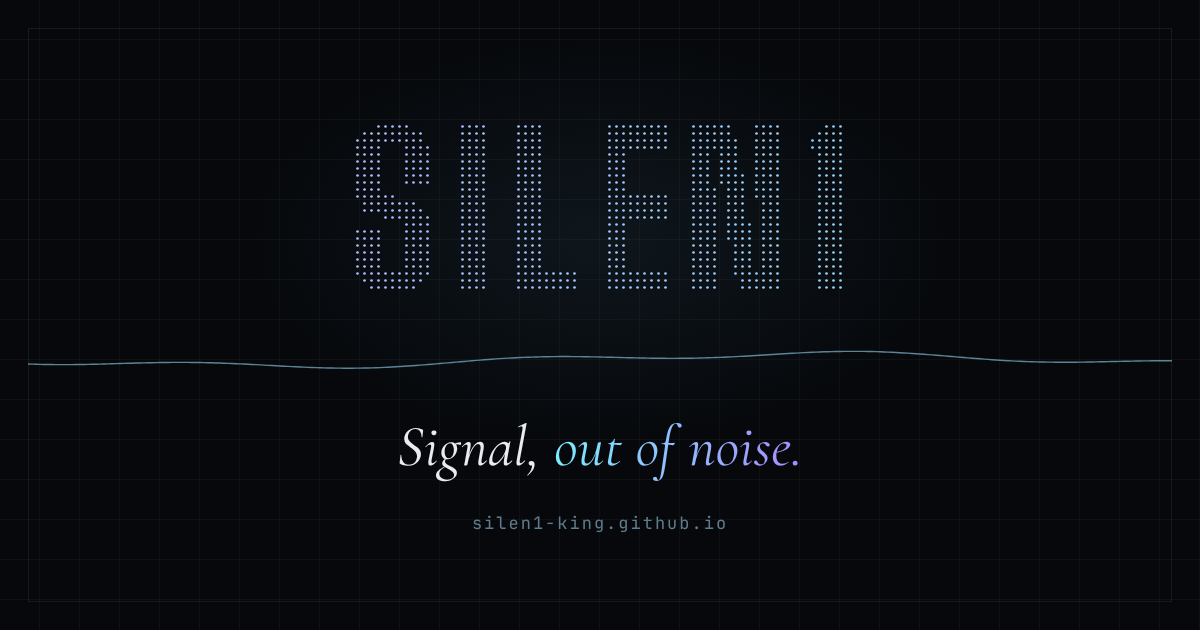
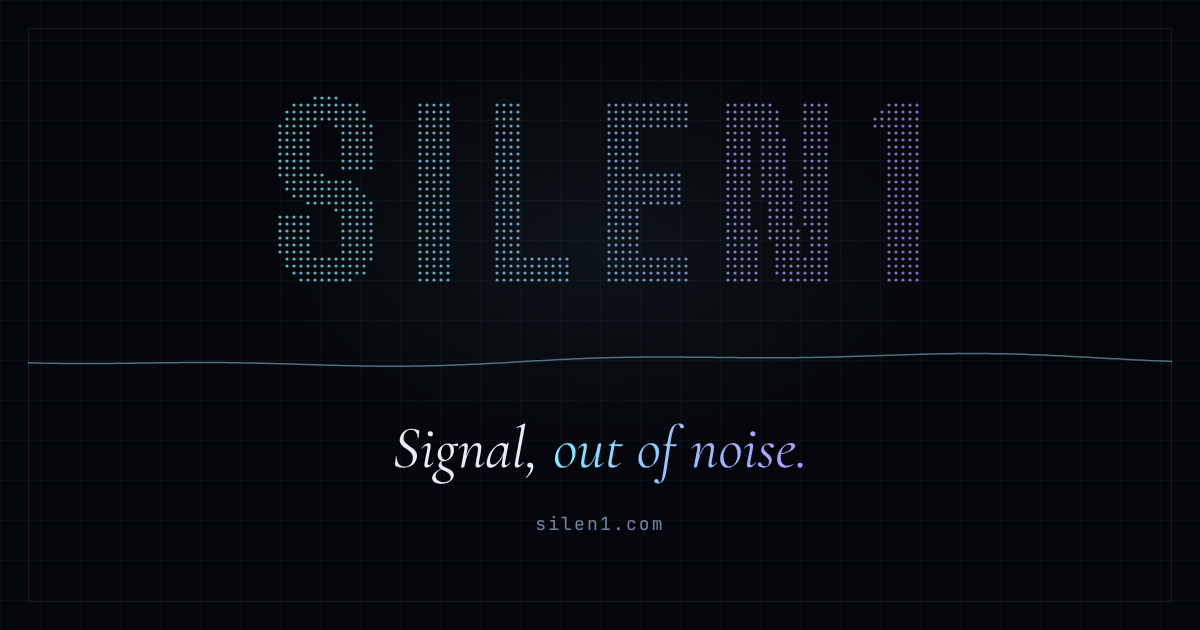
Site share card: silen1.com instead of the old address
Drawn by tools/og-cards.js --site; the ?v bump makes chat apps fetch it again.

Claude-Session: https://claude.ai/code/session_01Hj7h8k6GpPtj6h92DhySrT

diff --git a/tools/og-cards.js b/tools/og-cards.js
@@ -6,6 +6,7 @@
 //
 //   node tools/og-cards.js            cards for posts that don't have one
 //   node tools/og-cards.js --all      redraw every card
+//   node tools/og-cards.js --site     redraw the site card (images/og-card.png)
 //
 // Needs Playwright with Chromium (not a dependency of the site; the site
 // build only uses the PNGs). The title font is Noto Serif SC: point
@@ -90,8 +91,74 @@ ${skyline(post.path)}<div class="rain"></div><div class="frame"></div>
 </body></html>`;
 }
 
+// The site's own card, for the home page and every page without a post card:
+// SILEN1 in dots over the signal line, as on the home page.
+function siteCard() {
+  return `<!doctype html><html><head><meta charset="utf-8"><style>
+@font-face { font-family: "Big Shoulders Display"; src: url("${asset('fonts/big-shoulders-display.woff2')}") format("woff2"); font-weight: 100 900; }
+@font-face { font-family: "Cormorant Garamond"; font-style: italic; src: url("${asset('fonts/cormorant-garamond-italic.woff2')}") format("woff2"); }
+@font-face { font-family: "JetBrains Mono"; src: url("${asset('fonts/jetbrains-mono.woff2')}") format("woff2"); }
+* { margin: 0; }
+html, body { width: 1200px; height: 630px; overflow: hidden; background: #05060b; }
+.grid { position: absolute; inset: 0; background-image: linear-gradient(rgba(124,236,255,.035) 1px, transparent 1px), linear-gradient(90deg, rgba(124,236,255,.035) 1px, transparent 1px); background-size: 40px 40px; }
+.glow { position: absolute; inset: 0; background: radial-gradient(520px 300px at 50% 40%, rgba(124,236,255,.06), transparent 70%); }
+.frame { position: absolute; inset: 28px; border: 1px solid rgba(124,236,255,.10); }
+canvas { position: absolute; inset: 0; }
+.poem { position: absolute; top: 412px; width: 100%; text-align: center; font: italic 60px "Cormorant Garamond", serif; color: #e8ecf6; }
+.poem span { background: linear-gradient(90deg, #7cecff, #b096ff); -webkit-background-clip: text; color: transparent; }
+.url { position: absolute; top: 512px; width: 100%; text-align: center; font: 18px "JetBrains Mono", monospace; letter-spacing: .12em; color: #6f86a0; }
+</style></head><body>
+<div class="grid"></div><div class="glow"></div><div class="frame"></div>
+<canvas width="1200" height="630"></canvas>
+<div class="poem">Signal, <span>out of noise.</span></div>
+<div class="url">silen1.com</div>
+<script>
+document.fonts.load('900 200px "Big Shoulders Display"').then(() => {
+  const g = document.querySelector('canvas').getContext('2d');
+  const m = document.createElement('canvas');
+  m.width = 1200; m.height = 630;
+  const mg = m.getContext('2d');
+  mg.font = '900 230px "Big Shoulders Display"';
+  mg.textAlign = 'center'; mg.textBaseline = 'middle';
+  mg.letterSpacing = '24px';
+  mg.fillText('SILEN1', 612, 210);
+  const data = mg.getImageData(0, 0, 1200, 630).data;
+  for (let y = 0; y < 630; y += 7) for (let x = 0; x < 1200; x += 7) {
+    if (data[(y * 1200 + x) * 4 + 3] < 128) continue;
+    const t = (x - 340) / 520;
+    g.fillStyle = 'rgb(' + Math.round(124 + t * 52) + ',' + Math.round(236 - t * 86) + ',255)';
+    g.globalAlpha = .75;
+    g.beginPath(); g.arc(x, y, 1.6, 0, Math.PI * 2); g.fill();
+  }
+  g.globalAlpha = .6;
+  g.strokeStyle = '#7cb8c8'; g.lineWidth = 1.5;
+  g.beginPath();
+  for (let x = 28; x <= 1172; x += 4) {
+    const y = 360 + Math.sin(x / 190) * 5 + Math.sin(x / 61 + 1) * 2;
+    x === 28 ? g.moveTo(x, y) : g.lineTo(x, y);
+  }
+  g.stroke();
+  document.body.dataset.ready = '1';
+});
+</script></body></html>`;
+}
+
 (async () => {
   const all = process.argv.includes('--all');
+  if (process.argv.includes('--site')) {
+    const { chromium } = require('playwright');
+    const browser = await chromium.launch();
+    const page = await browser.newPage({ viewport: { width: 1200, height: 630 } });
+    const scratch = path.join(ROOT, 'source', 'images', '.card.html');
+    fs.writeFileSync(scratch, siteCard());
+    await page.goto(pathToFileURL(scratch).href);
+    await page.waitForSelector('body[data-ready]');
+    await page.screenshot({ path: path.join(ROOT, 'source', 'images', 'og-card.png') });
+    fs.rmSync(scratch, { force: true });
+    await browser.close();
+    console.log('source/images/og-card.png');
+    return;
+  }
   const hexo = new Hexo(ROOT, { silent: true });
   await hexo.init();
   await hexo.load();
